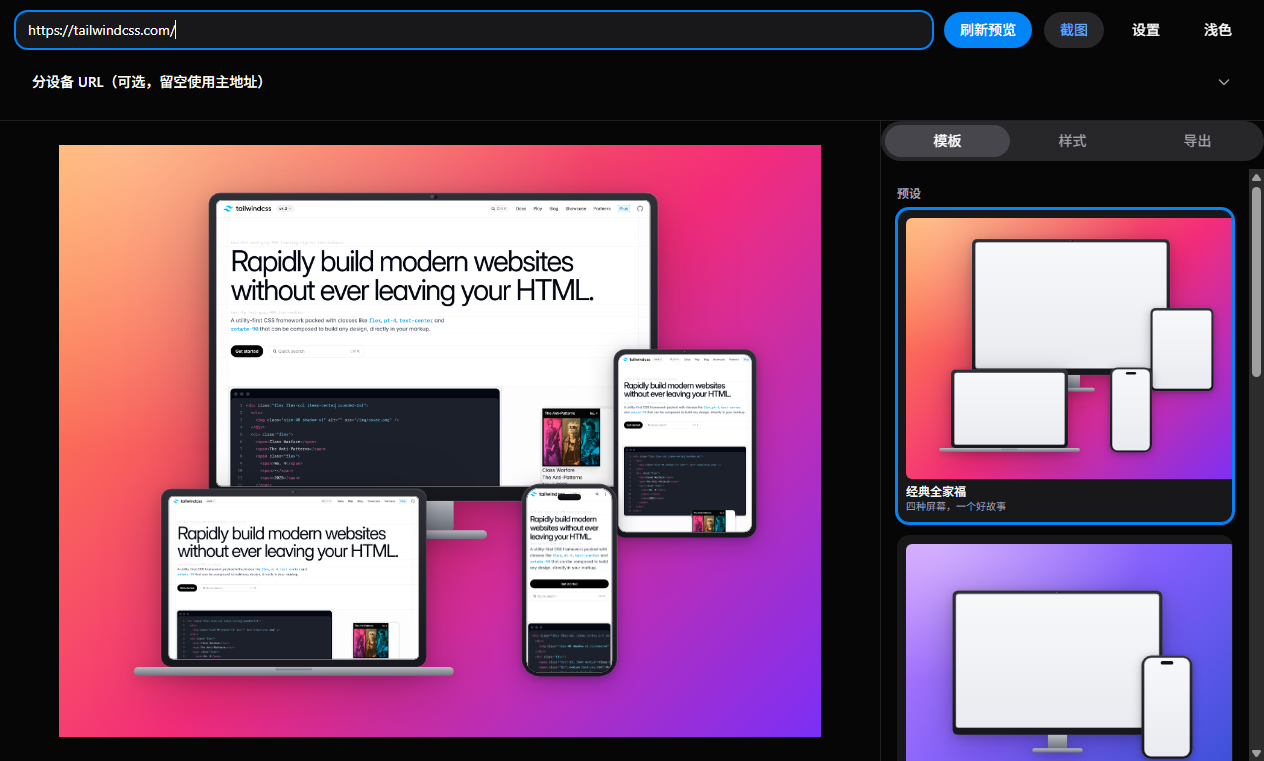
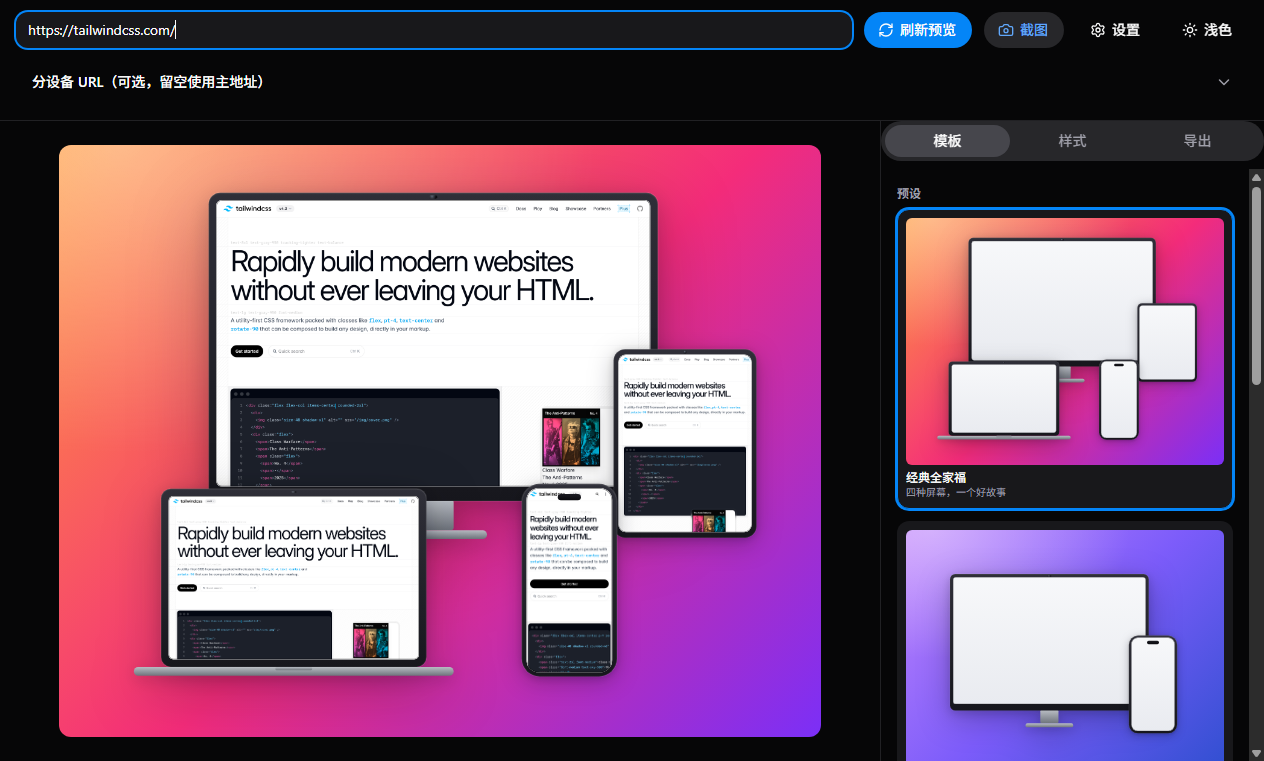
docs: 回写图标选型实测与两处收口，重拍 README 两张配图
PLAN §一 记图标口径（HeroUI 无图标集、库已给子 svg 定尺寸故不写 size、
具名 import 的包体实测），§5 补两行执行记录：图标一轮含 tree-shake 取证与
两类非代码抖动的定性（外网瞬时故障、用户 dev 实例并发写真实 settings.json
致「未污染用户真实设置」假红），§7 记入该断言分不清「冒烟污染」与「并发使用」
的待排期改法。

README 两张配图随本轮再刷：主图带图标与默认圆角（等 Toast 退场后截），
导出样例改按默认圆角 12 的 2x JPG，与主图口径一致。

Changed region(s): [[0.7097, 0.272, 1.0, 1.0], [0.6788, 0.0, 0.9565, 0.0907]]

diff --git a/docs/PLAN.md b/docs/PLAN.md
@@ -30,6 +30,8 @@
 
 **明确不做（本期）**：fullPage 截图、登录态截图、批量 URL、OG 尺寸预设、自动更新、系统托盘。列入文末 backlog。
 
+**UI 图标**：HeroUI v3 不自带图标集（官方示例直接引第三方库），Button 也没有图标插槽 —— 图标就是 children 里塞一个 SVG 组件，`@heroui/styles` 的 `.button` 已给子 `svg` 定好尺寸（默认 `size-5`、`sm:size-4`、`size="sm"` 时 `size-4`，并带 `pointer-events-none shrink-0`），**所以图标一律不写 size/className 参数**。选型经用户定夺用 `lucide-react`，且只用具名 import（AGENTS.md 第三节禁裸 barrel）；实测 20 个图标使 renderer 产物 +26.18 kB（1,679.08 → 1,705.26），构建产物里只有 23 处 `createLucideIcon`、未用的图标 0 命中，tree-shake 有效。busy 态一律用 HeroUI 内置 `Spinner`，不用图标转圈。
+
 ## 二、数据定义（迁移自旧版，直接照抄）
 
 ### 设备 preset
@@ -193,7 +195,7 @@ settingsGet(): Promise<AppSettings>; settingsSet(patch: Partial<AppSettings>): P
 - [x] 回归冒烟基线（2026-09-20：`scripts/smoke.mjs` 常驻，源码态 **122/122 PASS、零 SKIP**；超时自动转储现场、窗口停帧即判红、网络探测不通的分支走 `skip()` 不再虚报 PASS，详见「五、执行记录」。**跑前必须 `pnpm build`**：`smoke` 脚本不含构建，仓库里的 `out/` 一旦落后于源码就会打出一串假 FAIL（2026-09-20 踩到：2.0.0 时代的 `out/` 缺 2.1.x 全部功能，10 条红）。安装版 `--exe` 模式的靶子是 `release/win-unpacked/`，随 `release/` 清理会不在盘上、需重跑 `pnpm dist` 才有（2026-09-20 出 2.1.4 包后已恢复，安装版同轮跑 **122/122 PASS**）
 - [x] 反馈迭代 2.1.0 ~ 2.1.3（线上发布版曾为 2.1.3：装机反馈 4 项修复 + 预览拦截占位 + 检查更新「关于」页 + Chromium 下载二次确认 + 图标重设计为白底黑标并补 alpha；tag `2.1.3` 与 GitHub Release 已发、安装包已核验字节数与 SHA256 与本地一致、已静默装到本机）
 - [x] 缺陷收口 2.1.4（**当前发布版 2.1.4**，2026-09-20：渲染→主进程边界收紧、截图引擎不再被一次启动失败锁死、换地址清掉对应设备旧截图、截图任务互斥 + 删死文件。四道门全过：出包 ✅ / 推 origin ✅ / tag + Release ✅ / 装机复验 ✅ —— 安装包匿名核验 116,566,272 字节与本地一致、Range 请求 206 且首两字节 `MZ`）
-- [x] 视觉迭代 2.2.0（2026-09-20 用户看图签字通过：背景板 7 → 15 块重做、五套预设按构图口径重排、阴影按显示宽分级、desktop 壳去粗支架 + mobile 灵动岛 + 机身轮廓光、缩略图对齐真机、背景板选择器换 HeroUI 内置 `ColorSwatchPicker`。门禁 typecheck / lint / build 零错误，冒烟 **132 条**（新增 9 条：构图光学判据 ×3、壳体几何 ×3、色板代表色 ×2、内置选择器交互 ×1 组）。**版本已升 2.2.0；代码按 feat / test / docs / chore 四个 commit 落库，出包 / 推 origin / tag+Release / 装机四道门均待放行**）
+- [x] 视觉迭代 2.2.0（2026-09-20 用户看图签字通过：背景板 7 → 15 块重做、五套预设按构图口径重排、阴影按显示宽分级、desktop 壳去粗支架 + mobile 灵动岛 + 机身轮廓光、缩略图对齐真机、背景板选择器换 HeroUI 内置 `ColorSwatchPicker`；同日续做 **28 处按钮补图标（lucide-react）** 与两处收口（缩略图贴边、圆角默认 12 连带 JPG 垫白）。门禁 typecheck / lint / build 零错误，冒烟 **133 条**（新增 10 条：构图光学判据 ×3、壳体几何 ×3、色板代表色 ×2、内置选择器交互、圆角 JPG 垫白 ×1）。**版本已升 2.2.0；代码按 feat / test / docs / chore 四个 commit 落库，出包 / 推 origin / tag+Release / 装机四道门均待放行**）
 - [ ] 下一步：Backlog 择机（长截图 / 登录态截图 / 批量队列 / OG 预设 / 托盘 / 导出历史），以及 16px 图标简化版与 Chromium 真取消（0.5~1 天）——用户 2026-09-20 定：功能清单先记在 §7，有空再做；§7「已报出、待排期」五项技术债同候
 
 ## 五、执行记录
@@ -225,6 +227,8 @@ settingsGet(): Promise<AppSettings>; settingsSet(patch: Partial<AppSettings>): P
[1 lines of base64/hex data omitted]
 | 2026-09-20 | 2.1.4 Release 补挂（**四道门全过**） | 关闭上一条遗留 ①。`gh` 认证走用户放行的设备码流程（`A78C-xxxx` 由用户在浏览器输码），登录后 `gh auth status` 确认账号 `baiwumm`、token scopes `gist/read:org/repo`、协议 ssh。**Release** <https://github.com/baiwumm/preview-craft/releases/tag/2.1.4> 已发并挂上 `PreviewCraft-Setup-2.1.4.exe`：**匿名 API 核验 `draft=false`、附件 116,566,272 字节 = 本地 `stat` 一致**；公开下载链路 Range 请求回 **206 / 16 字节、首两字节 `MZ`**（真在伺服 PE）。说明稿含修复清单、字节数与 SHA256。**这条网络口径要更正上一轮写下的「CLI 一律不要注入 `HTTP(S)_PROXY`」——那是半成品结论，实测本机当前是分裂路由**：`github.com`（设备码 `POST /login/device/code`、Release 下载跳转）直连**超时**、走系统代理 `127.0.0.1:7890` **1.1s 通**；而 `api.github.com` 直连 0.28s 通、走代理 **403**。所以按端点分：**设备码与下载链路带 `-x http://127.0.0.1:7890`，API 读写与 `gh release create` 一律裸连**。另记一条 gh 用法坑：`--web` 流程的一次性码要先过「Press Enter to open browser」，把命令接进 `| tail` 会把码缓冲掉、拿不到 —— 后台任务直接输出到它自己的日志文件再读，别加管道 | ① `sandbox` 判定不做（渲染保真代价）；② §7「已报出、待排期」五项技术债待用户排期；③ 本轮 docs 提交是否推 origin 待放行 |
 | 2026-09-20 | 视觉迭代（v2.2.0，**用户看图签字**） | 用户指「预设模板有点丑」，拿 shots.so 做参照先出方案再动手，批准范围只含「零 schema / 零 IPC / 零导出尺寸变更」那一档。**先量后改**：写脚本按统一口径算出改前五套的包围盒留白与遮挡 —— `row` 左右留白仅 **25px**（贴边）且四台底边 585/551/493/553 无对齐轴、`focus` 水平偏心 22.5px 且画面占比仅 63%、`editorial` 偏心 14px、`classic` 前景压住后景屏幕 **14.8%**（「糊成一团」的根因）。**改后**：留白 88~205px、五套水平偏心全部 ≤7.5px、上下差 ≤19px、占比 71~84%、最大压屏 4.7%（`focus` 10.1% 为有意叠层），`row` 四台底边全落 566.1 且间隙等距 22px。判据**固化进冒烟 A 段**（留白 / 居中 / 占比 / 遮挡 / 底边对齐 / 间隙等距），以后改坐标即被校验。四项实现：① **背景板** 7 → 15 块分三组，渐变一律 `135deg` 三段 + 左上 `radial-gradient` 高光层（`value` 本就是单个 CSS 串，多层叠加零 schema 变更），自定义渐变同步改 135deg；② **阴影** `DeviceFrame` 原对四台一律 `0 18px 32px/.35`，改 `deviceShadow(displayWidth)` 按显示宽折算 + 双层（desktop 660 → `0 28.8px 54.4px`，mobile 140 → `0 8.1px 15.3px`），helper 落 `lib/design.ts` 供真机与缩略图共用；③ **设备壳** desktop 外接高 548 → 478（支架颈 84×86 → 56×42、底座 304 → 148、下巴 42 → 20、金属由亮银改空间灰），mobile 加 `shell.island` 灵动岛（画在内屏裁剪层内，坐标与机身同基准、定位需从 inner 原点做差值），摄像头件从白色块改暗镜片，机身加 `0 0 0 .8k rgba(255,255,255,.14)` 外轮廓光——**这条是实测逼出来的**：`focus` 首版黑底压黑壳，设备轮廓整个消失；④ **缩略图** `ThumbCanvas` 补同一套阴影 + 玻璃压边 + 灵动岛，内屏占位从 `bg-white/70` 改中性渐变，画廊与真机所见一致。**背景板选择器换 HeroUI 内置 `ColorSwatchPicker`**（用户点名要内置，替掉手写 button 网格）：读安装包源码确认边界——选中态以 `color.toString('hexa')` 为唯一 key、`color` 参数走 `parseColor` 所以**渐变串进不去**，故每块背景补 `color` 代表色（15 个互不相同，冒烟锁死），真实 CSS 经 `ColorSwatchPicker.Swatch` 的 `style` 透传覆盖；每组各一个 picker，跨组互斥用「点选后全页仅一项 `data-selected`」断言兜。**代价（已告知并获准）**：内置色块只有 16~40px 方/圆，做不了原来的宽条块 + 每块挂中文名，`title` 也不在 `ColorSwatchPickerItemProps` 类型里（TS 直接拒），故名称改为「当前：X」单行回显 + `aria-label`。**门禁**：typecheck / lint / build 三绿；冒烟 A 段先 50/50，加条目后全量 **132 条**（本轮 2 条 SKIP 是 github.com 探测超时的既有外网依赖分支，非本轮引入）。**出图核验**：CDP 驱动真实应用截 `tailwindcss.com` 四台 → `exportCompose` 逐套预设出 1x PNG + 三张应用内界面图，用户看图通过 | ① 代码按 feat / test / docs / chore 四个 commit 落库，**出包 / 推 origin / tag+Release / 装机复验四道门全部待放行**；② 方案级那条**没做**：浏览器窗口壳（`Placement.frame`，即 shots 的 Frame 模式）——chrome 条应撑在 inner 之外、viewport 保持不变，否则截图内容被拉伸；且导出态要在地址栏显示 URL 需给 `ExportRenderPayload` 加 `urls` 字段，属契约变更，排在 §7 五项技术债之后；③ README 两张配图本轮重拍替换（旧图仍是淡彩底 + 粗支架时代产物）；④ 画廊卡片在缩略图与标题之间有一段 `bg-surface` 深色留白，2.1.x 既有观感、本轮未动 |
+| 2026-09-20 | 按钮补图标（v2.2.0 续） | 用户提「按钮都是纯文字，适当加图标，比如顶部那 4 个」。先查清一件事再报选型：**HeroUI v3 不提供图标集**（`@heroui/react` 只有 react 与 styles 两个包，官方 Button 文档的图标示例直接引第三方库），Button 也没有图标插槽 —— 图标就是 children 里塞一个 SVG，所以「用库内置」在这条上不成立，必然是新增依赖。按 AGENTS.md 第三节「依赖变更属方案级」摆三个选项带推荐（lucide-react / @gravity-ui/icons 官方示例同款 / 手写 inline SVG 零依赖），用户定 **lucide-react + 全站范围**。落地 28 处：顶栏 4（RefreshCw / Camera / Settings / Sun·Moon）、样式面板 3（Palette / Save / RotateCcw）、导出面板 2（Camera / Download，busy 态换 HeroUI 内置 Spinner）、设置弹窗 9（Check·Circle / FolderOpen / Eraser / ScanSearch / Trash2 / RefreshCw / CircleArrowUp / ExternalLink / X）、Chromium 下载四态 4、引导弹窗 2、另存弹窗 2、画廊删除的 `✕` 文字符号换成 X、设备屏内「重试」加 RotateCw。两处细节：`使用 / 已选` 同一枚按钮的两个状态各配一枚图标（Circle / Check），否则只有一态带图标会造成 16px 宽度跳动；主题钮的图标与文案同指「要切去的那一档」（暗色下显示太阳 + 「浅色」）。**不写任何 size / className** —— `@heroui/styles` 的 `.button` 已给子 `svg` 定好 `size-5` / `sm:size-4` / `size="sm"` 时 `size-4` 并带 `pointer-events-none shrink-0`，自己再指定反而和库打架。**包体实测**：具名 import 下 renderer 产物 1,679.08 → 1,705.26 kB（20 个图标 +26.18 kB），产物内 `createLucideIcon` 仅 23 处、抽测未用图标（Bath / Astronaut / Squirrel / Zodiac）0 命中 → tree-shake 有效，AGENTS.md 那条「禁裸 barrel import」按具名 import 满足；代价是构建图里模块数 1,768 → 3,630、build 325ms → 426ms。**门禁踩到两类非代码抖动，都做了取证**：① 一轮 130/134，4 条 FAIL 全在「Ctrl+Enter 后画布出图」段，同轮 bridge 层 `captureStart` 却 4/4 用 21.3s 过 —— 判为 github.com 瞬时故障致 UI 截图报错、画布停在错误占位、`waitForFunction` 顶满 300s，单跑 B 段复验 **82/82 全绿**；② 另一轮 FAIL「未污染用户真实设置 06be9e69 → 34558372」，取证发现是**用户自己的 dev 实例**（PID 1900，13:39:07 起的 `electron .`，命令行里没有 `--user-data-dir`）正持有真实 `%APPDATA%\preview-craft` 并在 14:00 写过 settings.json；冒烟与出图实例都带 `.smoke-profile`，隔离档案里能看到 smoke 自己的终态（theme dark + browserPath + `templates:v1`），**未污染用户数据、也没去杀那个进程**，事后核对真实 settings.json 内容与本次会话开始时逐字节相同（theme light / png / 2）。该轮重跑后此条回到 `34558372 → 34558372` PASS | ① AGENTS.md §二「技术栈（锁定）」表没列图标库，只在第三节把 `lucide-react` 当反面例子点名 —— 要不要在 §二补一行由用户定，我只在 PLAN §一 记了选型与实测；② 「未污染用户真实设置」这条哈希断言**分不清**「冒烟污染」与「有人 concurrent 在用真实档案」，建议加一条：启动时检测到非冒烟实例持有真实 userData 即走 `skip()` 并写明原因（未获批准，本轮没动）；③ 图标改动随本轮两处收口一并提交（见下一行），出包 / 推送 / tag+Release / 装机四道门仍全部待放行 |
+| 2026-09-20 | 视觉迭代续：缩略图贴边与圆角默认值 | 用户装机看效果后回提两条。**① 预设缩略图贴边**：先量再定——实测卡片 border-box 336px、`p-2` + 1px 边框下内容区只有 **318px**，而 `ThumbCanvas` 按写死的 `scale=0.3` 输出 **336×261**，右侧溢出 9px 被卡片的 `overflow-hidden` 裁掉，于是左边 8px、右边 0px 看着贴边；根因是**死比例算死宽度**（336 = 384 侧栏 − 面板 p-4 32 − 卡片 p-2 16 − 边框 2 − 侧栏内滚动条 16，少算任何一项都会再犯）。改法不新增钩子：外层给 `w-full` + `aspect-ratio: 1120/870` 撑出真实高度，缩放直接复用主画布那个 `useFitScale` 按实宽算，`scale` prop 与 0.3 魔数一并删掉（全仓库仅 TemplateGallery 一处用）。复量：缩略图 318×247、左右各 9px 对称。**② 圆角默认 12**：`defaultStyle.borderRadius` 0 → 12。这条牵出一个真缺陷——画布带圆角后四角是被裁掉的透明区，**JPG 没有 alpha**，导出窗口页面底色一直强制 transparent，圆角外就会渲染成黑角；改 `ExportPage` 在 `flattenWhite`（JPG）时把页面本身铺白，与既有「透明底 JPG 自动垫白」同一口径。新增断言实测四角 247~255 全白；阈值先写 250 判红过一次，实为 JPG 色度抽样在圆角边缘的振铃（247 是正常值不是缺陷），放宽到 235 并注明原因。**README 两张配图随本轮再刷**（主图带图标与圆角、导出样例改按默认圆角 12 的 2x JPG）。门禁：typecheck / lint / build 零错误，冒烟 B 段 **81/81 + 2 SKIP**（外网探测分支） | ① 出包 / 推送 / tag+Release / 装机四道门待放行；② 圆角是会话样式、不随模板持久化（PLAN 3.4 既有口径），用户若要「每个模板自带圆角」需扩 schema，未动 |
 
 ## 六、待确认
 
@@ -266,3 +270,4 @@ settingsGet(): Promise<AppSettings>; settingsSet(patch: Partial<AppSettings>): P
 - **`setState` 更新函数里发 IPC**：`App.tsx` 的另存/删除自定义模板把 `templatesSave` / `templatesDelete` 写在 `setCustomTemplates(prev => …)` 里，`main.tsx` 开着 StrictMode → dev 下更新函数双调用、真发两次 IPC。违反 AGENTS.md 第三节红线，因模板 id 是时间戳 upsert 才没产生重复数据。
 - **截图倍率语义**：`capture.ts` 的 `deviceScaleFactor: 2` 是硬编码（出图恒为 viewport 的 2 倍），与设置里的「导出倍率」是两件事，界面上没说清。
 - **冒烟的两条拦截分支依赖外网**：本机到 github.com 常 10s 上下顶到 8s 探测超时，近几轮里常出现 2 条 SKIP；要满覆盖得在 CI 里造一个可控的「拒绝内嵌」站点。
+- **「未污染用户真实设置」分不清污染与并发使用**：该断言只比对真实 `%APPDATA%\preview-craft\settings.json` 的前后哈希，而用户自己开的 dev 实例（`electron .` 不带 `--user-data-dir`）同样在写这个文件 —— 2026-09-20 就踩到一次假红（`06be9e69 → 34558372`，取证为 PID 1900 那个实例 14:00 的写入）。改法：启动时枚举 `electron.exe` / `PreviewCraft.exe` 的命令行，凡持有真实 userData 且非本冒烟进程，即让这条断言走 `skip()` 并写明原因，而不是判红。
